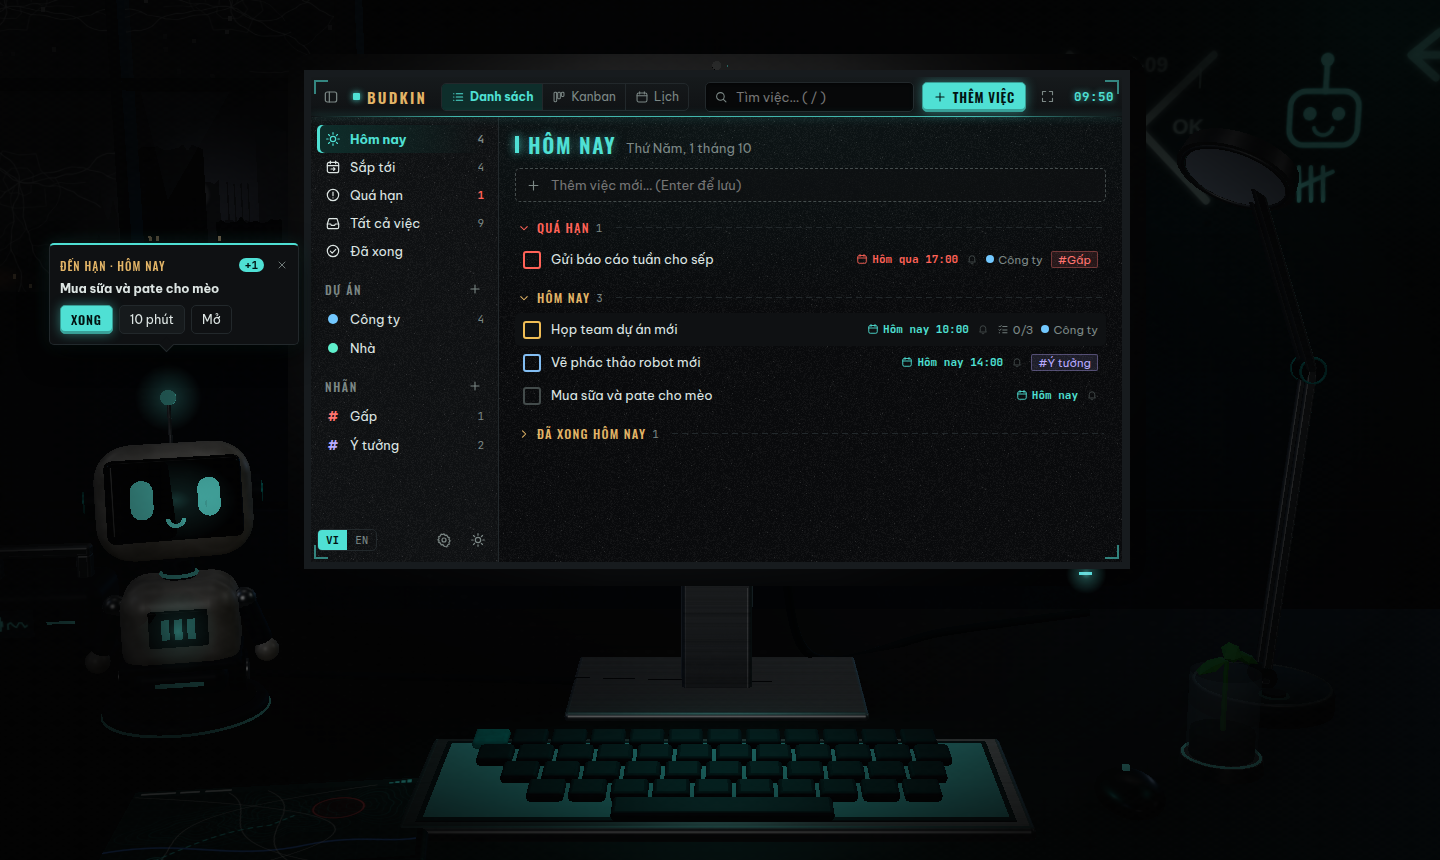
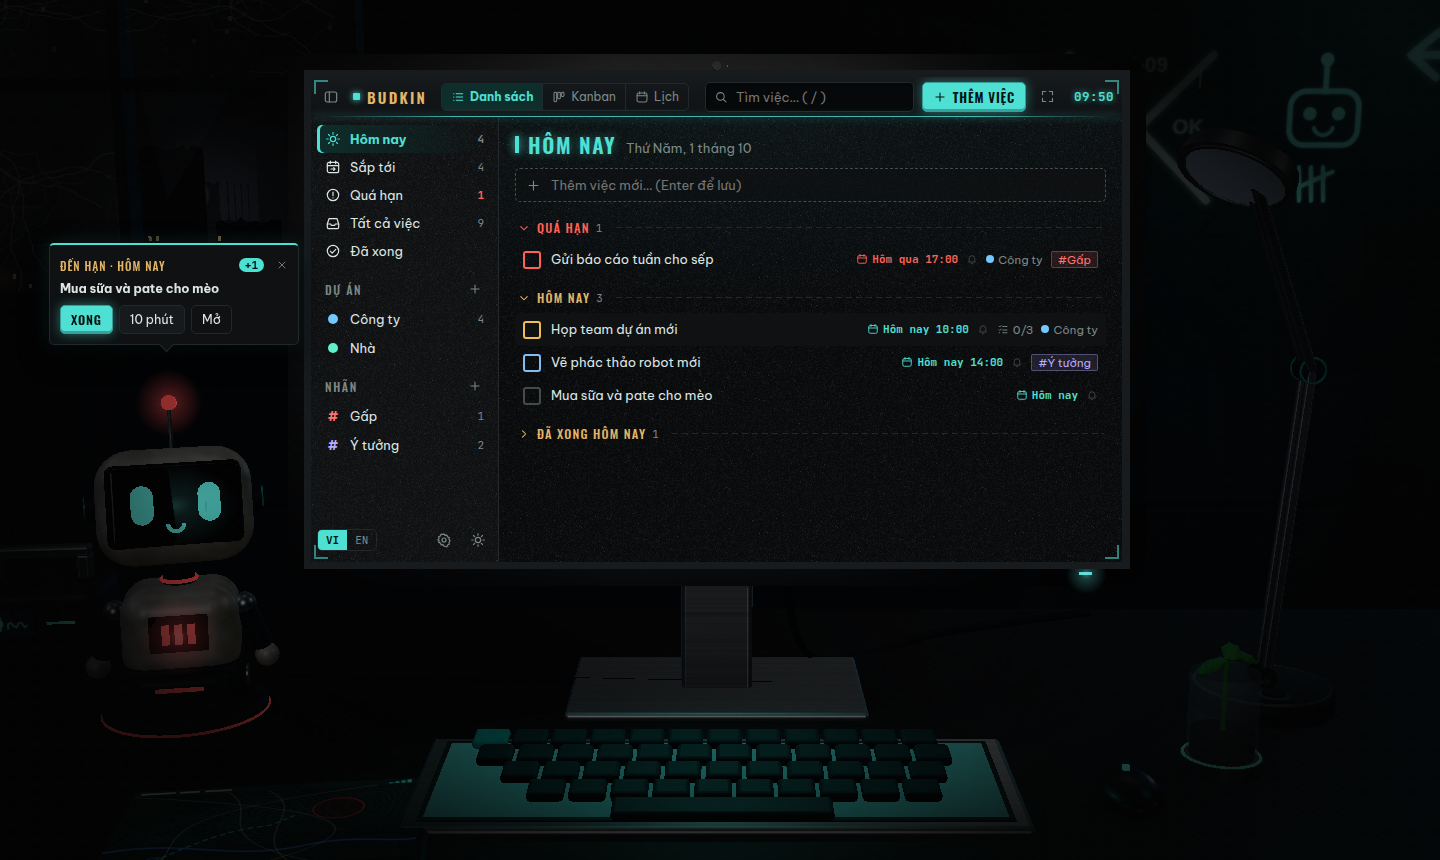
Bàn 2D: lùi mép bàn ra sau, đồ vật đứng trên mặt bàn chứ không sát tường
Mép sau mặt bàn (chỗ chạm tường) nằm sau chân màn hình, robot, đèn 58 mm — thấy
một dải mặt bàn phía sau như cảnh 3D; robot nhích lên trước màn hình 14 mm; hộp
thiết bị đặt trên bàn sát tường, dây cáp chạy vòng phía sau; bóng tiếp giáp ở
chân tường. Test bố cục: mép bàn nằm sau đồ vật, bệ robot không lọt mép dưới.

diff --git a/src/renderer/src/flat/FlatRoom.tsx b/src/renderer/src/flat/FlatRoom.tsx
@@ -77,7 +77,7 @@ function keysPath(k: FlatLayout['keyboard'], s: number): string {
 }
 
 export const FlatRoom = memo(function FlatRoom({ l }: { l: FlatLayout }): React.JSX.Element {
-  const { w, h, s, cx, base, screen, bezel, keyboard: kb } = l
+  const { w, h, s, cx, base, deskBack, screen, bezel, keyboard: kb } = l
   const toggle = useTheme((x) => x.toggle)
   const theme = useTheme((x) => x.target)
 
@@ -158,9 +158,9 @@ export const FlatRoom = memo(function FlatRoom({ l }: { l: FlatLayout }): React.
       </defs>
 
       {/* ---- Tường bê tông: vách đúc, mạch ghép, lỗ ty, vết ố, vết nứt ---- */}
-      <rect x={0} y={0} width={w} height={base + 2} fill="url(#fd-wall)" />
+      <rect x={0} y={0} width={w} height={deskBack + 2} fill="url(#fd-wall)" />
       {seamXs.map((x) => (
-        <line key={x} className="fd-seam" x1={x} y1={0} x2={x} y2={base} />
+        <line key={x} className="fd-seam" x1={x} y1={0} x2={x} y2={deskBack} />
       ))}
       <line className="fd-seam" x1={0} y1={base - 620 * s} x2={w} y2={base - 620 * s} />
       <line className="fd-seam" x1={0} y1={base - 1240 * s} x2={w} y2={base - 1240 * s} />
@@ -207,18 +207,21 @@ export const FlatRoom = memo(function FlatRoom({ l }: { l: FlatLayout }): React.
       </g>
 
       {/* ---- Hộp thiết bị sau robot, dây cáp ---- */}
-      <path className="fd-box-top" d={`M ${l.robot.x - 160 * s} ${base - 100 * s} l ${10 * s} ${-12 * s} h ${118 * s} l ${-10 * s} ${12 * s} Z`} />
-      <rect className="fd-box" x={l.robot.x - 160 * s} y={base - 100 * s} width={118 * s} height={102 * s} rx={3 * s} />
-      <path className="fd-vent" d={`M ${l.robot.x - 148 * s} ${base - 80 * s} h ${70 * s} M ${l.robot.x - 148 * s} ${base - 70 * s} h ${70 * s} M ${l.robot.x - 148 * s} ${base - 60 * s} h ${70 * s}`} />
+      {/* ---- Mặt bàn gỗ óc chó (mép sau chạm tường, nằm sau màn hình / robot / đèn) ---- */}
+      <rect x={0} y={deskBack} width={w} height={h - deskBack} fill="url(#fd-desk)" />
+      <rect className="fd-contact" x={0} y={deskBack} width={w} height={9 * s} />
+      <line className="fd-desk-back" x1={0} y1={deskBack + 0.5} x2={w} y2={deskBack + 0.5} />
 
-      {/* ---- Mặt bàn gỗ óc chó ---- */}
-      <rect x={0} y={base} width={w} height={h - base} fill="url(#fd-desk)" />
-      <rect className="fd-contact" x={0} y={base} width={w} height={7 * s} />
+      {/* ---- Hộp thiết bị trên bàn, sát tường, phía sau robot ---- */}
+      <ellipse className="fd-shadow" cx={l.robot.x - 101 * s} cy={deskBack + 24 * s} rx={72 * s} ry={8 * s} />
+      <path className="fd-box-top" d={`M ${l.robot.x - 160 * s} ${deskBack - 78 * s} l ${10 * s} ${-12 * s} h ${118 * s} l ${-10 * s} ${12 * s} Z`} />
+      <rect className="fd-box" x={l.robot.x - 160 * s} y={deskBack - 78 * s} width={118 * s} height={102 * s} rx={3 * s} />
+      <path className="fd-vent" d={`M ${l.robot.x - 148 * s} ${deskBack - 58 * s} h ${70 * s} M ${l.robot.x - 148 * s} ${deskBack - 48 * s} h ${70 * s} M ${l.robot.x - 148 * s} ${deskBack - 38 * s} h ${70 * s}`} />
       {[0.12, 0.27, 0.41, 0.58, 0.74, 0.9].map((k, i) => (
         <path
           key={k}
           className={i % 2 ? 'fd-grain dark' : 'fd-grain'}
-          d={`M 0 ${base + (l.deskFront - base) * k} C ${w * 0.25} ${base + (l.deskFront - base) * (k - 0.05)}, ${w * 0.6} ${base + (l.deskFront - base) * (k + 0.06)}, ${w} ${base + (l.deskFront - base) * (k + 0.01)}`}
+          d={`M 0 ${deskBack + (l.deskFront - deskBack) * k} C ${w * 0.25} ${deskBack + (l.deskFront - deskBack) * (k - 0.05)}, ${w * 0.6} ${deskBack + (l.deskFront - deskBack) * (k + 0.06)}, ${w} ${deskBack + (l.deskFront - deskBack) * (k + 0.01)}`}
         />
       ))}
       {l.deskFront < h && (
@@ -227,8 +230,8 @@ export const FlatRoom = memo(function FlatRoom({ l }: { l: FlatLayout }): React.
           <line className="fd-desk-edge" x1={0} y1={l.deskFront} x2={w} y2={l.deskFront} />
         </>
       )}
-      <path className="fd-cable" d={`M ${l.robot.x - 100 * s} ${base + 2 * s} C ${l.robot.x + 40 * s} ${base + 22 * s}, ${cx - 260 * s} ${base + 4 * s}, ${cx - 40 * s} ${base + 3 * s}`} strokeWidth={5 * s} />
-      <path className="fd-cable" d={`M ${lx + 30 * s} ${base + 4 * s} C ${lx + 90 * s} ${base + 10 * s}, ${w - 40 * s} ${base + 2 * s}, ${w + 10} ${base + 6 * s}`} strokeWidth={4.5 * s} />
+      <path className="fd-cable" d={`M ${l.robot.x - 46 * s} ${deskBack + 14 * s} C ${l.robot.x + 60 * s} ${deskBack + 30 * s}, ${cx - 260 * s} ${deskBack + 12 * s}, ${cx - 40 * s} ${base - 4 * s}`} strokeWidth={5 * s} />
+      <path className="fd-cable" d={`M ${lx + 30 * s} ${base - 4 * s} C ${lx + 80 * s} ${base - 14 * s}, ${w - 60 * s} ${deskBack + 14 * s}, ${w + 10} ${deskBack + 10 * s}`} strokeWidth={4.5 * s} />
 
       {/* ---- Ánh đèn bàn hắt lên tường và mặt bàn (tắt đèn thì tắt) ---- */}
       <g className="fd-lamplight">
@@ -315,7 +318,7 @@ export const FlatRoom = memo(function FlatRoom({ l }: { l: FlatLayout }): React.
           <path d={`M ${g.x + 28 * s} ${g.y + 30 * s} v ${14 * s} M ${g.x + 64 * s} ${g.y + 30 * s} v ${14 * s} M ${g.x + 30 * s} ${g.y + 56 * s} q ${16 * s} ${12 * s} ${32 * s} 0`} />
         </g>
         <rect className="fd-led" x={bezel.x + bezel.width - 70 * s} y={bezel.y + bezel.height - 7 * s} width={20 * s} height={2.6 * s} rx={1.3 * s} />
-        <rect className="fd-led" x={l.robot.x - 150 * s} y={base - 40 * s} width={36 * s} height={3 * s} rx={1.5 * s} />
+        <rect className="fd-led" x={l.robot.x - 150 * s} y={deskBack - 18 * s} width={36 * s} height={3 * s} rx={1.5 * s} />
         <rect className="fd-led" x={l.mouse.x - 1.5 * s} y={l.mouse.y - 11 * s} width={3 * s} height={8 * s} rx={1.5 * s} />
         <circle className="fd-led warm" cx={lx + 30 * s} cy={base - 8 * s} r={2.6 * s} />
         {/* Tấm LED của đèn bàn và quầng sáng (theo độ sáng bóng — chớp lúc bật) */}

diff --git a/src/renderer/src/flat/flatLayout.ts b/src/renderer/src/flat/flatLayout.ts
@@ -14,6 +14,10 @@ export const MM = {
   robotGap: 10,
   /** Mặt trên bệ robot (PEDESTAL.height trong scene/robots/common) */
   pedestal: 16,
+  /** Mép sau mặt bàn (chỗ bàn chạm tường) nằm sau chân màn hình / đèn — nhìn từ trên xuống thấy một dải mặt bàn phía sau */
+  deskBehind: 58,
+  /** Robot đứng nhích lên phía trước màn hình một chút (cảnh 3D: robot gần người xem hơn màn hình, đèn) */
+  robotForward: 14,
   /** Đèn: từ chân đế sang trái (chụp đèn chồm về phía màn hình) / sang phải, chiều cao */
   lampLeft: 100,
   lampRight: 55,
@@ -36,14 +40,18 @@ export interface FlatLayout {
   s: number
   /** Tâm màn hình theo chiều ngang */
   cx: number
-  /** Mép sau mặt bàn — nơi màn hình, robot, đèn đứng */
+  /** Nơi chân màn hình, đèn đứng trên mặt bàn */
   base: number
+  /** Mép sau mặt bàn, chỗ bàn chạm tường (phía trên `base`) */
+  deskBack: number
   /** Phần hiển thị của màn hình (giao diện nằm ở đây) */
   screen: Rect
   /** Cả khung màn hình (gồm viền) */
   bezel: Rect
   /** Tâm mặt trên của bệ robot */
   robot: { x: number; y: number }
+  /** Chân bệ robot trên mặt bàn */
+  robotGround: number
   /** Tâm chân đế đèn */
   lamp: { x: number; y: number }
   keyboard: { x: number; y: number; w: number; h: number }
@@ -77,9 +85,11 @@ export function flatLayout(w: number, h: number): FlatLayout {
     s,
     cx,
     base,
+    deskBack: base - MM.deskBehind * s,
     screen,
     bezel: { x: screen.x - b, y: screen.y - b, width: screen.width + 2 * b, height: screen.height + 2 * b },
-    robot: { x: cx - (outerHalf + MM.robotGap + MM.robotHalfW) * s, y: base - MM.pedestal * s },
+    robot: { x: cx - (outerHalf + MM.robotGap + MM.robotHalfW) * s, y: base + (MM.robotForward - MM.pedestal) * s },
+    robotGround: base + MM.robotForward * s,
     lamp: { x: cx + (outerHalf + MM.lampGap + MM.lampLeft) * s, y: base },
     keyboard: { x: cx - kbW / 2, y: base + 24 * s, w: kbW, h: 68 * s },
     mouse: { x: cx + 262 * s, y: base + 62 * s },

diff --git a/tests/flat-layout.test.ts b/tests/flat-layout.test.ts
@@ -29,6 +29,10 @@ describe('bố cục bàn làm việc 2D', () => {
     expect(robotRight).toBeLessThanOrEqual(l.bezel.x)
     expect(l.robot.y - 290 * l.s).toBeGreaterThanOrEqual(0)
     expect(l.base + MM.minBelow * l.s * 0.9).toBeLessThanOrEqual(h)
+    // Bệ robot (cả bóng dưới chân) không lọt ra ngoài mép dưới; mép sau mặt bàn nằm sau chân màn hình, robot, đèn
+    expect(l.robotGround + 12 * l.s).toBeLessThanOrEqual(h)
+    expect(l.deskBack).toBeLessThan(l.base - 40 * l.s)
+    expect(l.robotGround).toBeGreaterThan(l.base)
     // Đèn
     expect(l.lamp.x - MM.lampLeft * l.s).toBeGreaterThanOrEqual(l.bezel.x + l.bezel.width)
     expect(l.lamp.x + MM.lampRight * l.s).toBeLessThanOrEqual(w)

diff --git a/src/renderer/src/flat/FlatDesk.tsx b/src/renderer/src/flat/FlatDesk.tsx
@@ -73,7 +73,7 @@ export function FlatDesk(): React.JSX.Element {
       stage.ready = true
     }
     // Robot đứng ở tâm bệ; mét trên mặt bàn → px theo tỉ lệ của tranh
-    stage.robotAnchor = (y) => (current ? { x: current.robot.x, y: current.base - y * 1000 * current.s } : { x: 0, y: 0 })
+    stage.robotAnchor = (y) => (current ? { x: current.robot.x, y: current.robotGround - y * 1000 * current.s } : { x: 0, y: 0 })
     stage.hit = () => {
       const l = current!
       return {

diff --git a/src/renderer/src/styles/flat.css b/src/renderer/src/styles/flat.css
@@ -126,6 +126,13 @@
   opacity: 0.38;
 }
 
+/* Mép sau mặt bàn bắt chút ánh sáng (phân biệt mặt bàn với chân tường) */
+.fd-desk-back {
+  stroke: #4a3628;
+  stroke-width: 1;
+  stroke-opacity: 0.8;
+}
+
 .fd-grain {
   fill: none;
   stroke: #4c3729;
